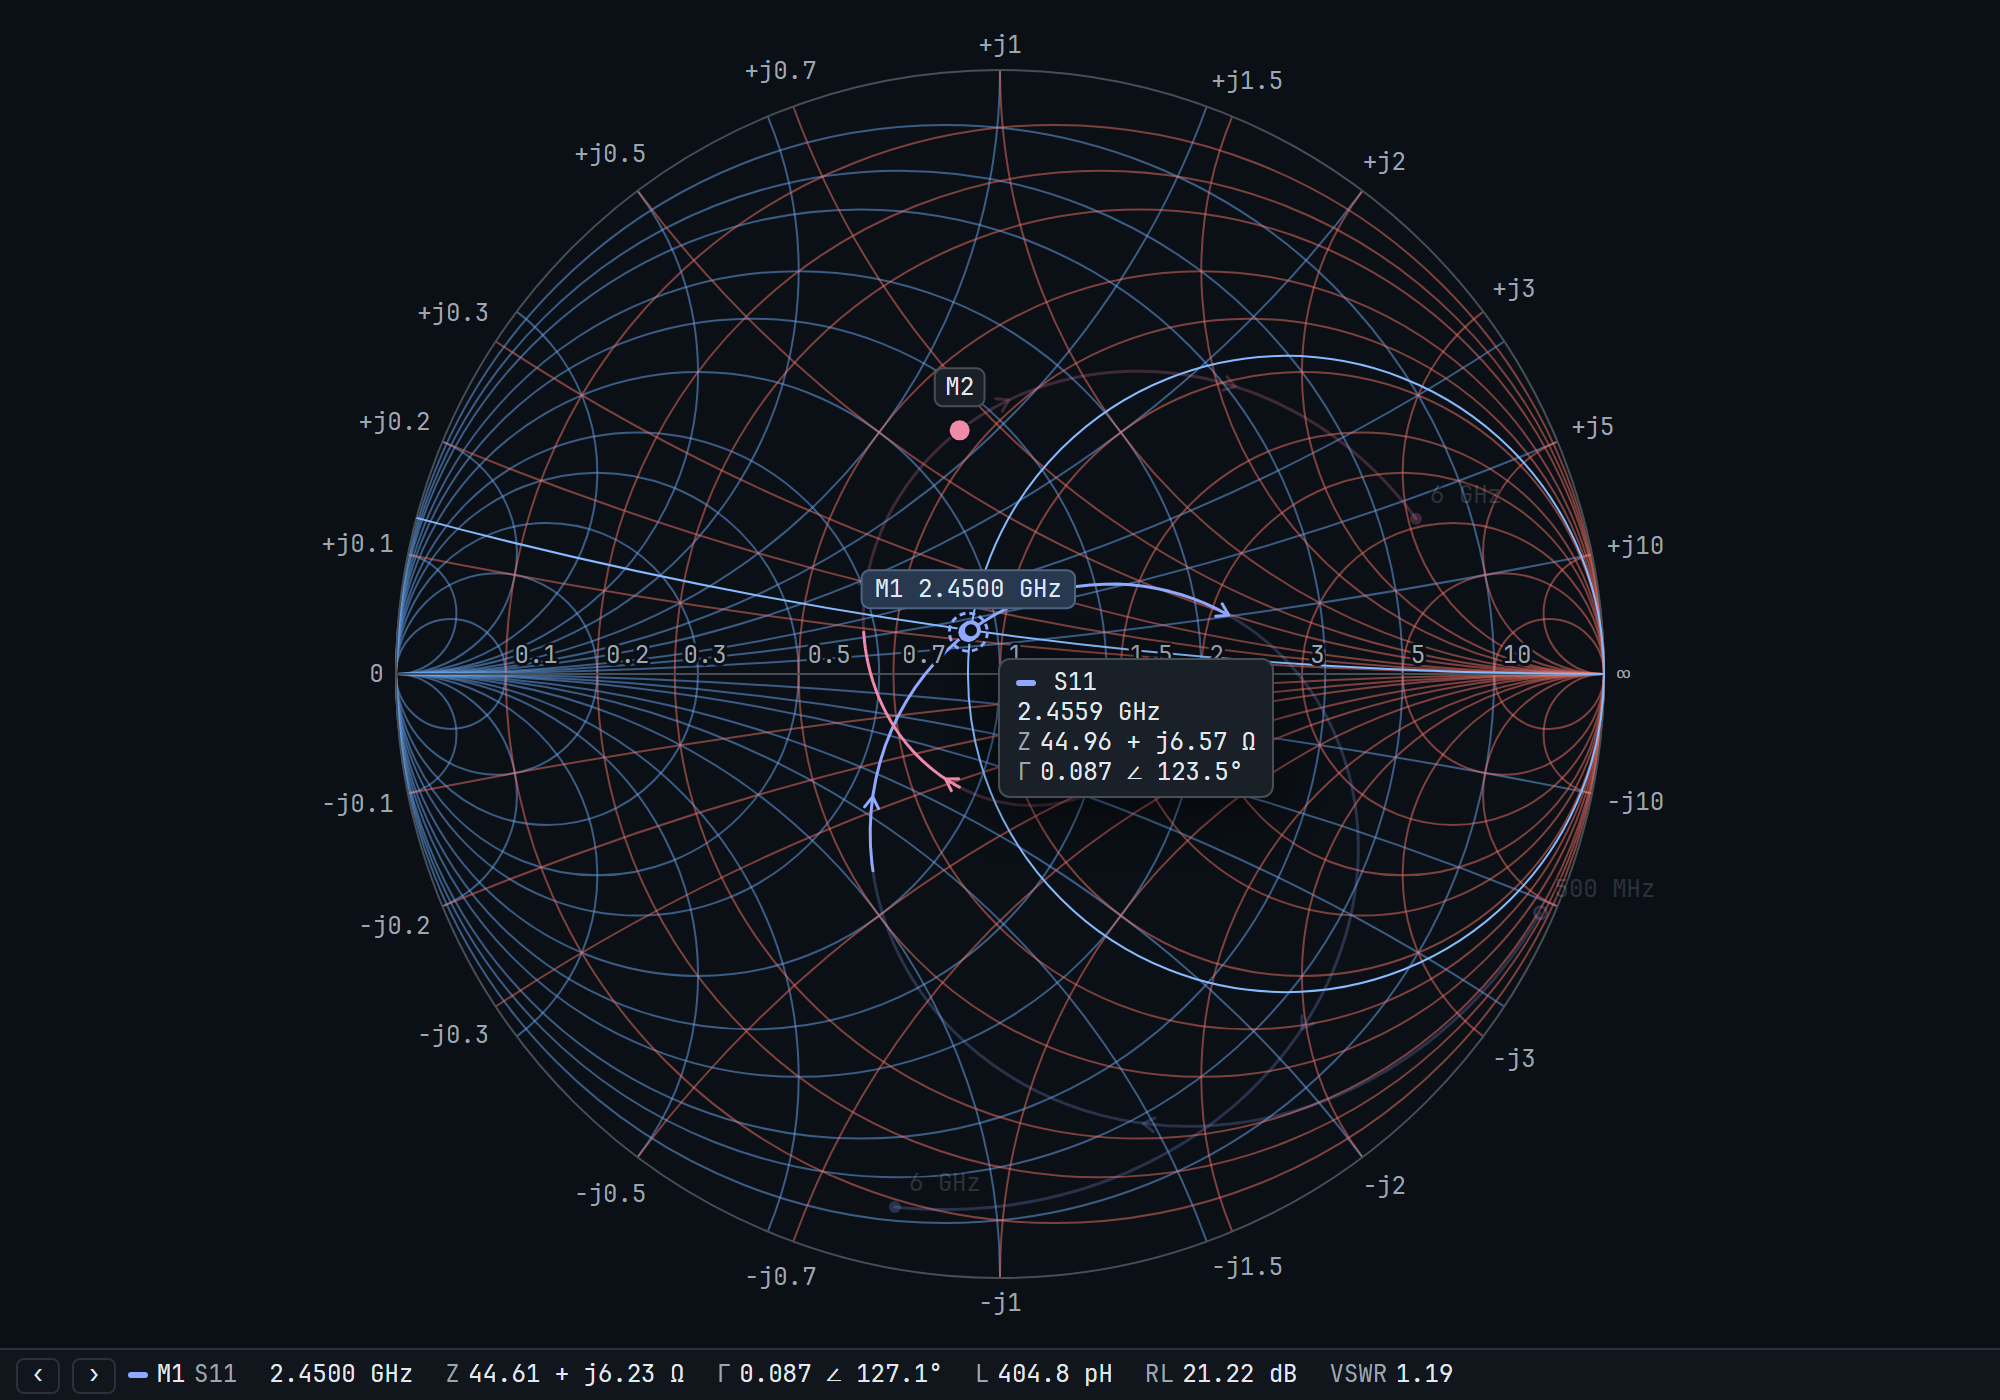
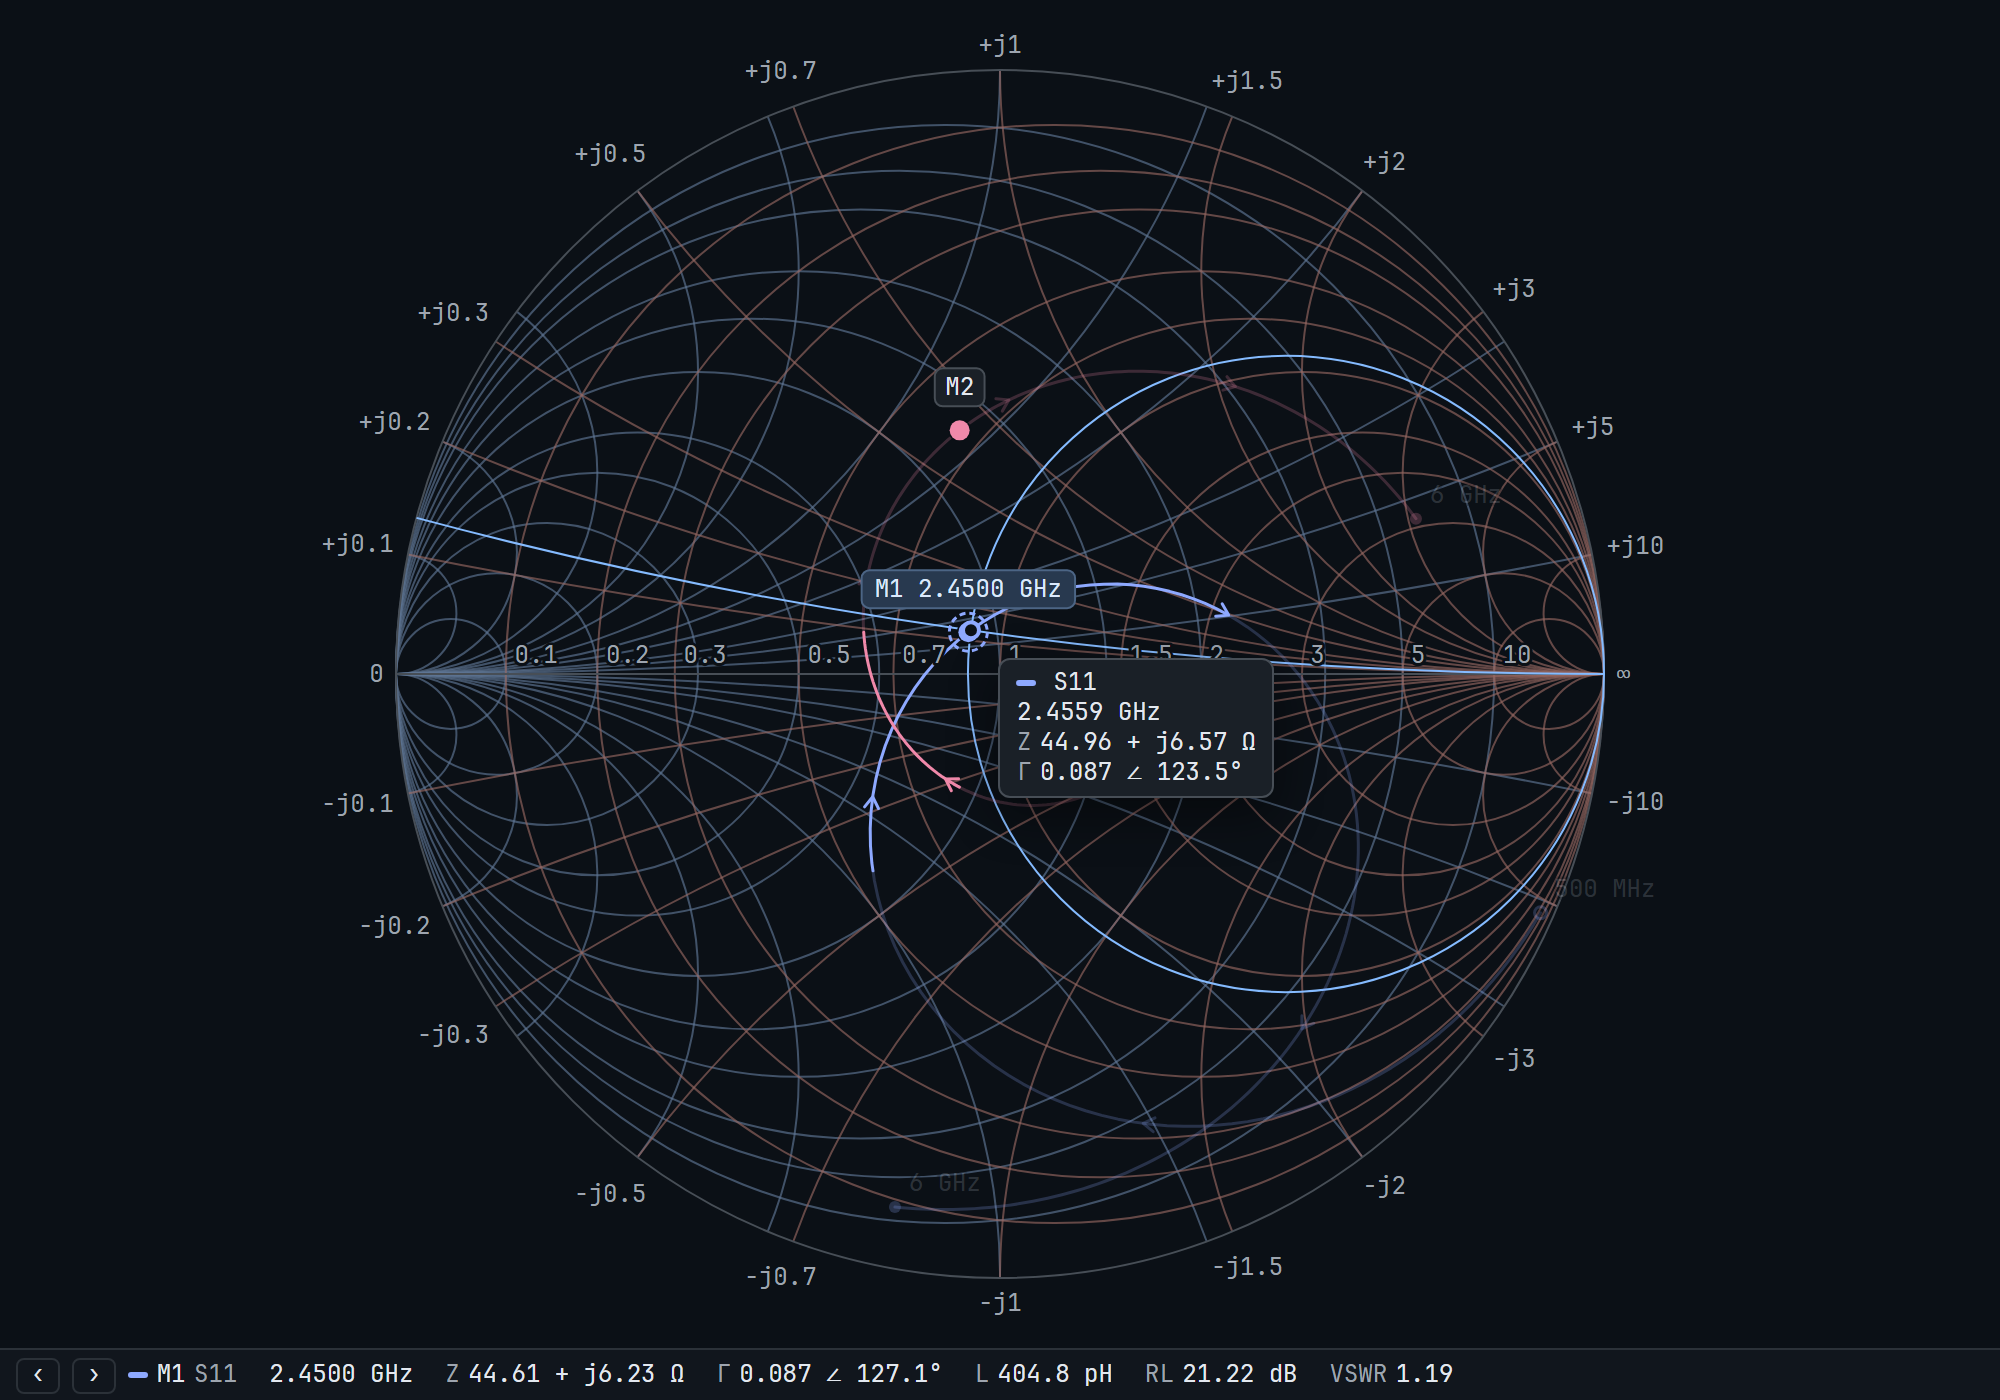
smith: mute the Z + Y grid tints so they never read as traces

diff --git a/src/components/smith/smith-pane.css b/src/components/smith/smith-pane.css
@@ -7,10 +7,11 @@
   --smith-bg: var(--bg);
   --smith-grid: color-mix(in oklab, var(--border) 62%, var(--border-strong));
   --smith-frame: var(--border-strong);
-  /* Z + Y overlay, as on the classic combined chart: impedance red, admittance blue, both translucent
-     so crossings stay readable and the traces stay on top. */
-  --smith-grid-z-both: oklch(0.58 0.19 27 / 0.5);
-  --smith-grid-y-both: oklch(0.56 0.16 255 / 0.5);
+  /* Z + Y overlay, as on the classic combined chart: impedance warm, admittance cool.
+     Chroma is kept far below the trace palette (0.13 to 0.16), so the grid reads as tinted grey and is
+     never mistaken for a red or blue trace. */
+  --smith-grid-z-both: oklch(0.66 0.065 27 / 0.6);
+  --smith-grid-y-both: oklch(0.64 0.055 255 / 0.6);
   display: flex; flex-direction: column; flex: 1; min-width: 0; min-height: 0; height: 100%;
   background: var(--smith-bg); color: var(--text);
 }
@@ -90,6 +91,6 @@
 .smith-step:focus-visible { outline: 2px solid var(--accent); outline-offset: 1px; }
 
 .theme-dark .smith-pane {
-  --smith-grid-z-both: oklch(0.70 0.16 27 / 0.5);
-  --smith-grid-y-both: oklch(0.72 0.13 255 / 0.5);
+  --smith-grid-z-both: oklch(0.56 0.06 27 / 0.65);
+  --smith-grid-y-both: oklch(0.56 0.055 255 / 0.65);
 }

diff --git a/docs/redesign/smith-integration.md b/docs/redesign/smith-integration.md
@@ -54,7 +54,7 @@ A "Smith" section replaces Grid in `PaneSettingsPopover`. The saved shape alread
 
 | Setting | Options | Prop |
 |---|---|---|
-| Grid | Z · Y · Z + Y (in Z + Y the impedance grid is red and the admittance grid blue, both translucent, as on the classic combined chart; Y alone is dashed) | `grid: 'z' \| 'y' \| 'both'` |
+| Grid | Z · Y · Z + Y (in Z + Y the impedance grid is tinted warm and the admittance grid cool, as on the classic combined chart but at low chroma so the grid never reads as a red or blue trace; Y alone is dashed) | `grid: 'z' \| 'y' \| 'both'` |
 | Labels | Normalised · Ohms | `labels: 'normalised' \| 'ohms' \| 'off'` |
 | Direction | Chevrons + ends · Ends · Off | `direction: 'chevrons' \| 'ends' \| 'off'` |
 | Readout | Z · Y · \|Γ\|∠ · VSWR · RL | `readout: ('z' \| 'y' \| 'gamma' \| 'vswr' \| 'return-loss')[]` |
